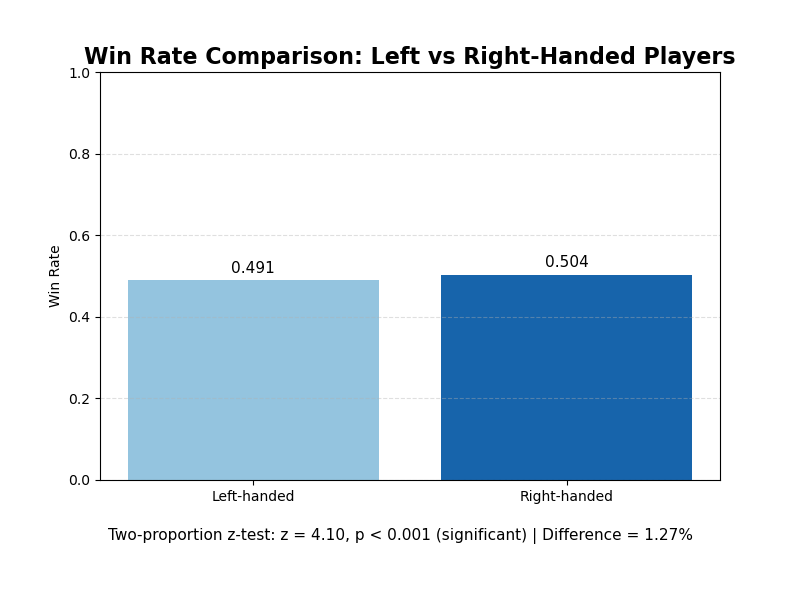
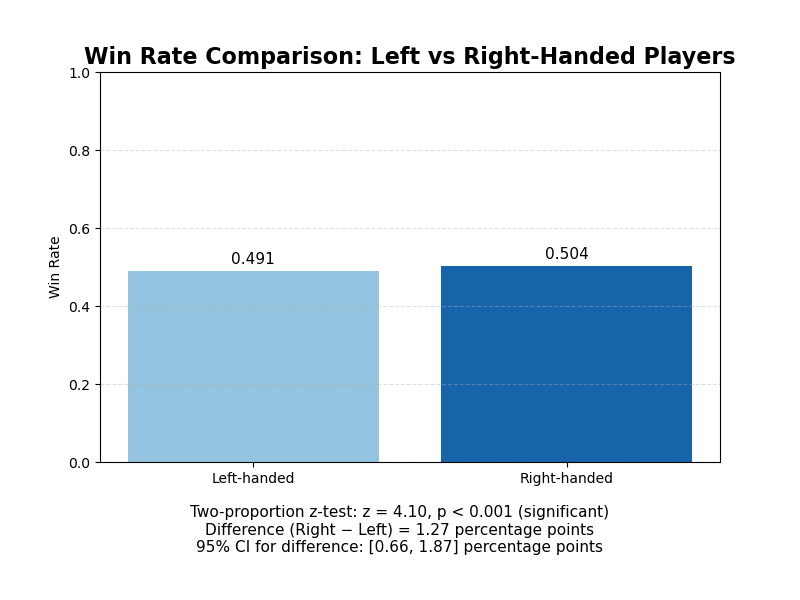
added CI difference to plot for extra clarity

diff --git a/code/atp_hand_analysis/atp_hand_significance_test.py b/code/atp_hand_analysis/atp_hand_significance_test.py
@@ -62,7 +62,7 @@ def plot_winrate_barchart(summary, p_value=None, z_value=None):
         weight="bold"
     )
 
-    plt.subplots_adjust(bottom=0.20)
+    plt.subplots_adjust(bottom=0.23)
 
     if p_value is not None and z_value is not None:
         significance = "significant" if p_value < 0.05 else "not significant"
@@ -72,12 +72,25 @@ def plot_winrate_barchart(summary, p_value=None, z_value=None):
         else:
             p_text = f"p = {p_value:.5f}"
 
-        diff = (win_rates["Right-handed"] - win_rates["Left-handed"]) * 100
+        # Difference (Right - Left) in percentage points
+        pL = win_rates["Left-handed"]
+        pR = win_rates["Right-handed"]
+        nL = summary.loc["L", "Total Matches"]
+        nR = summary.loc["R", "Total Matches"]
+
+        diff = pR - pL
+        diff_pp = diff * 100
+
+        # 95% CI for the difference in proportions (normal approx)
+        se_diff = np.sqrt(pR * (1 - pR) / nR + pL * (1 - pL) / nL)
+        ci_low_pp = (diff - 1.96 * se_diff) * 100
+        ci_high_pp = (diff + 1.96 * se_diff) * 100
 
         plt.figtext(
-            0.5, 0.1,
-            f"Two-proportion z-test: z = {z_value:.2f}, {p_text} ({significance}) | "
-            f"Difference = {diff:.2f}%",
+            0.5, 0.08,
+            f"Two-proportion z-test: z = {z_value:.2f}, {p_text} ({significance})\n"
+            f"Difference (Right − Left) = {diff_pp:.2f} percentage points\n"
+            f"95% CI for difference: [{ci_low_pp:.2f}, {ci_high_pp:.2f}] percentage points",
             ha="center",
             fontsize=11
         )
